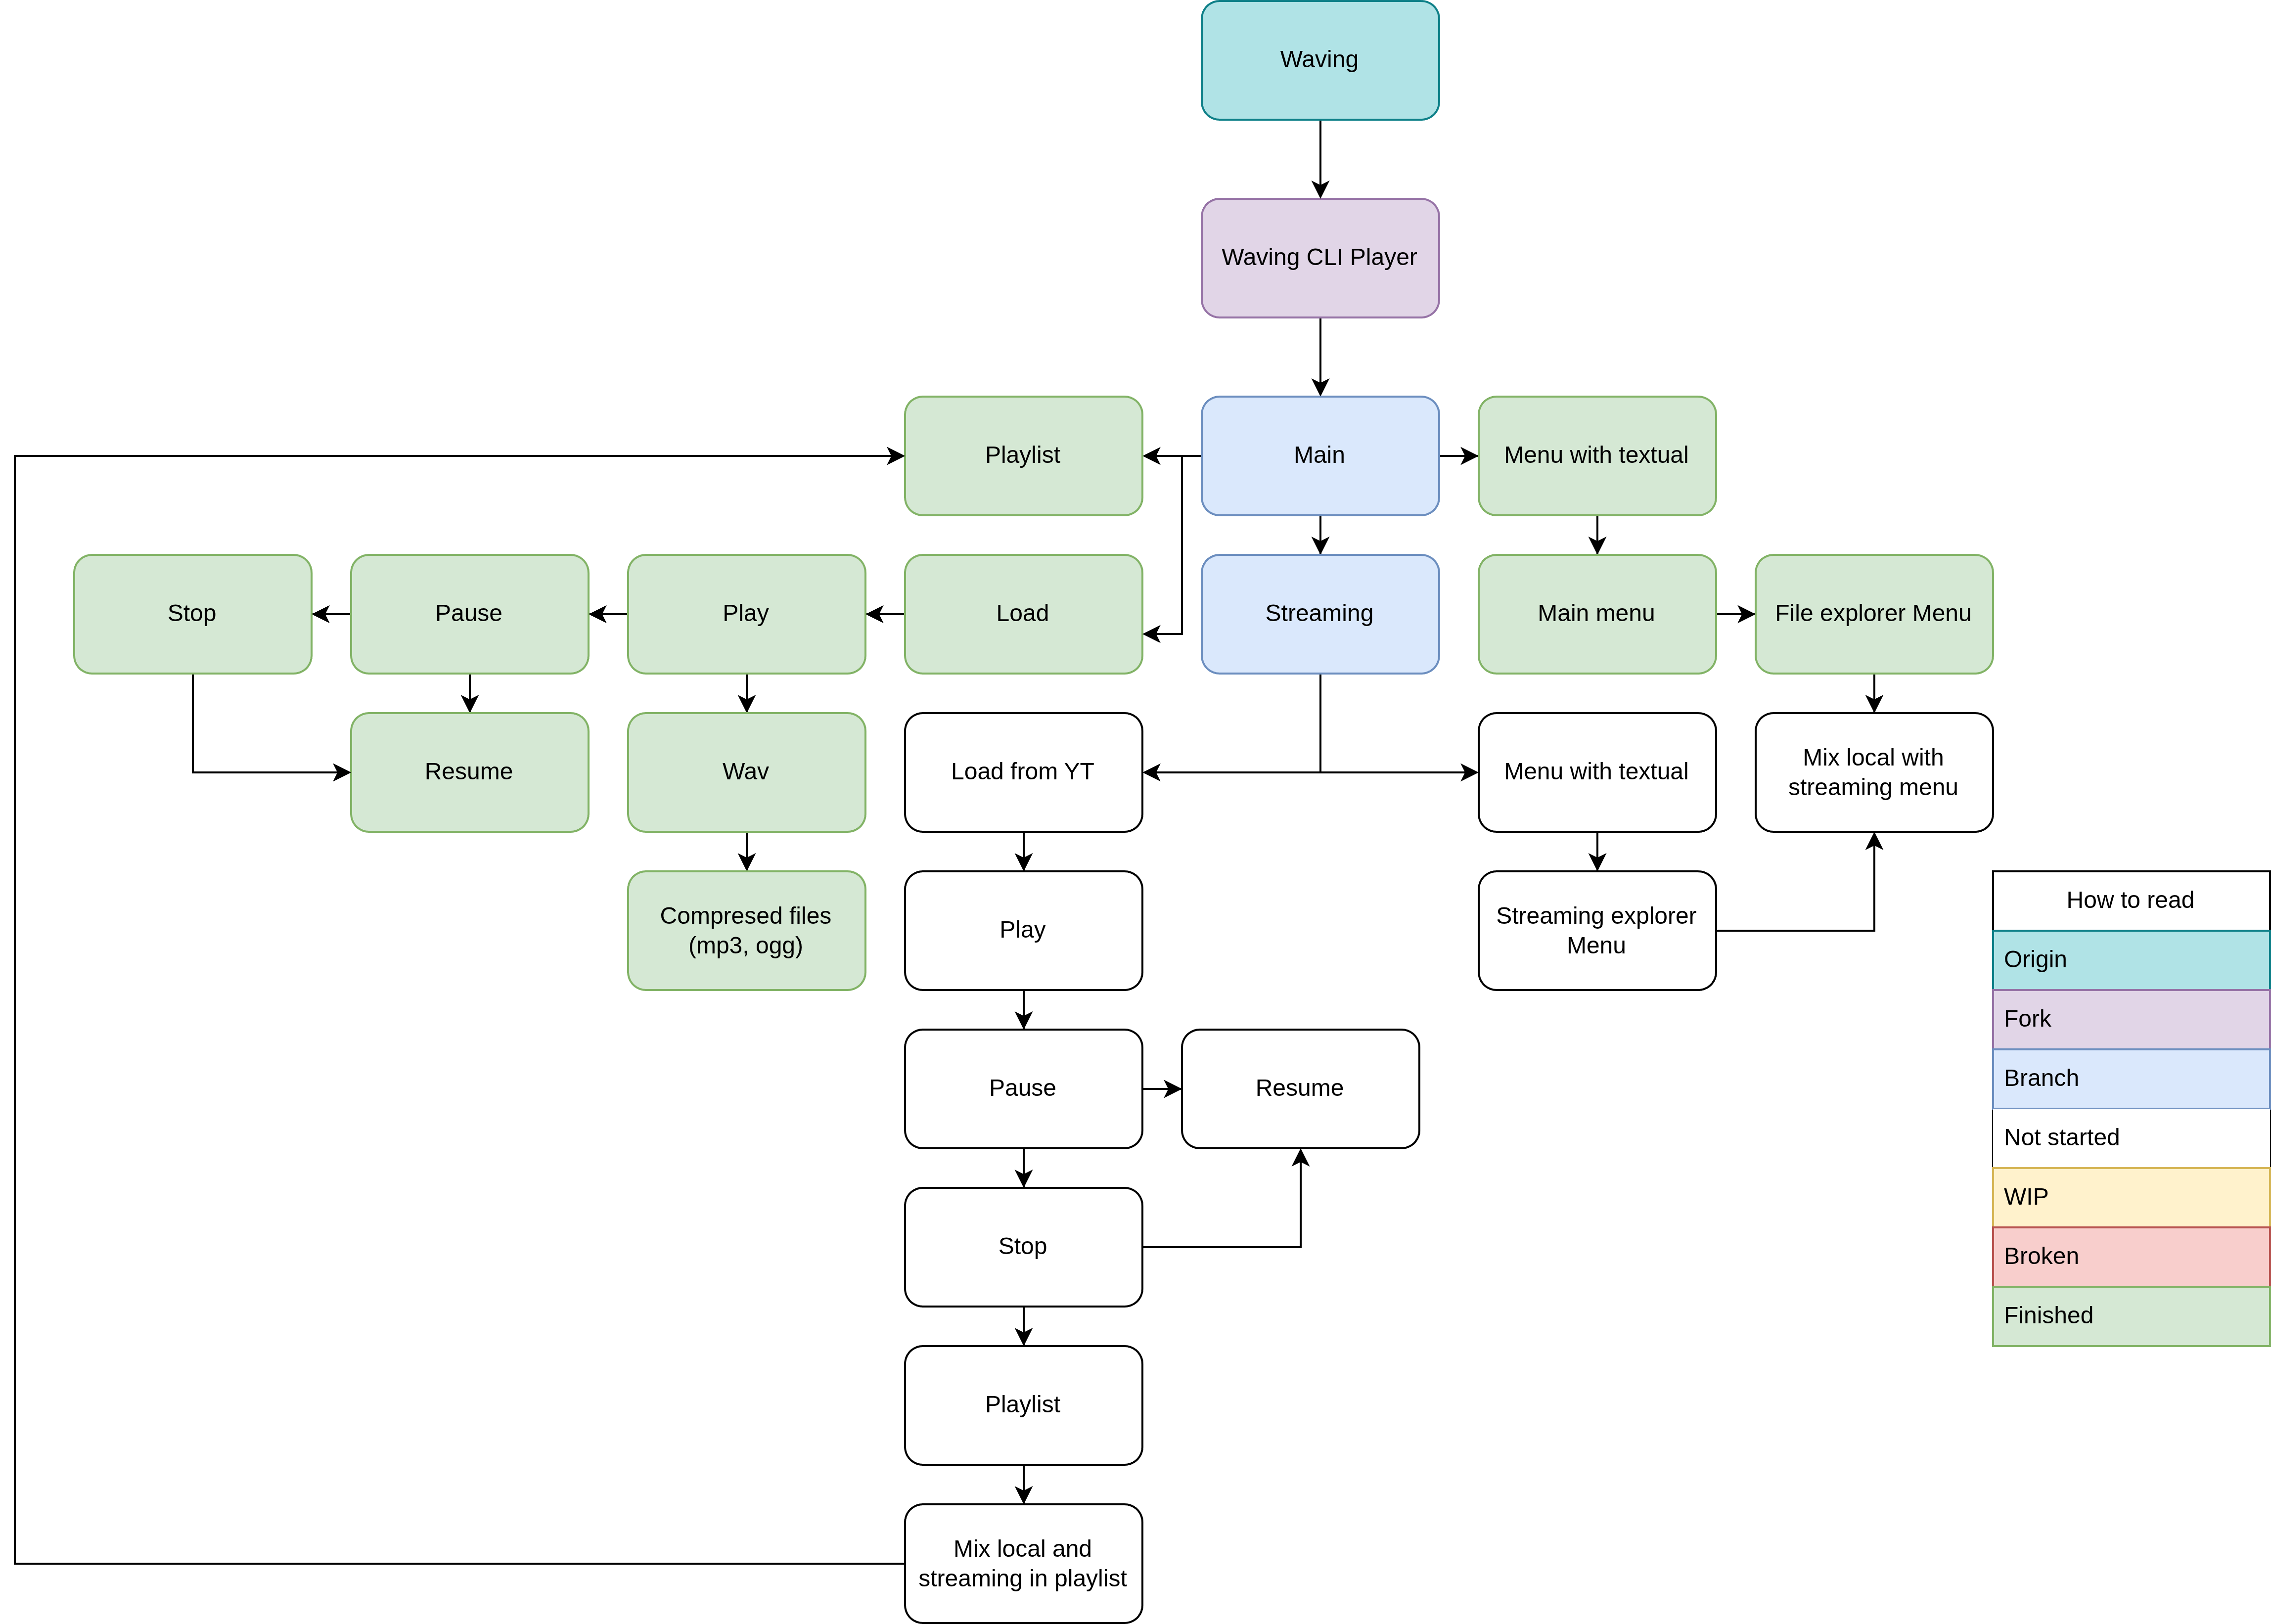
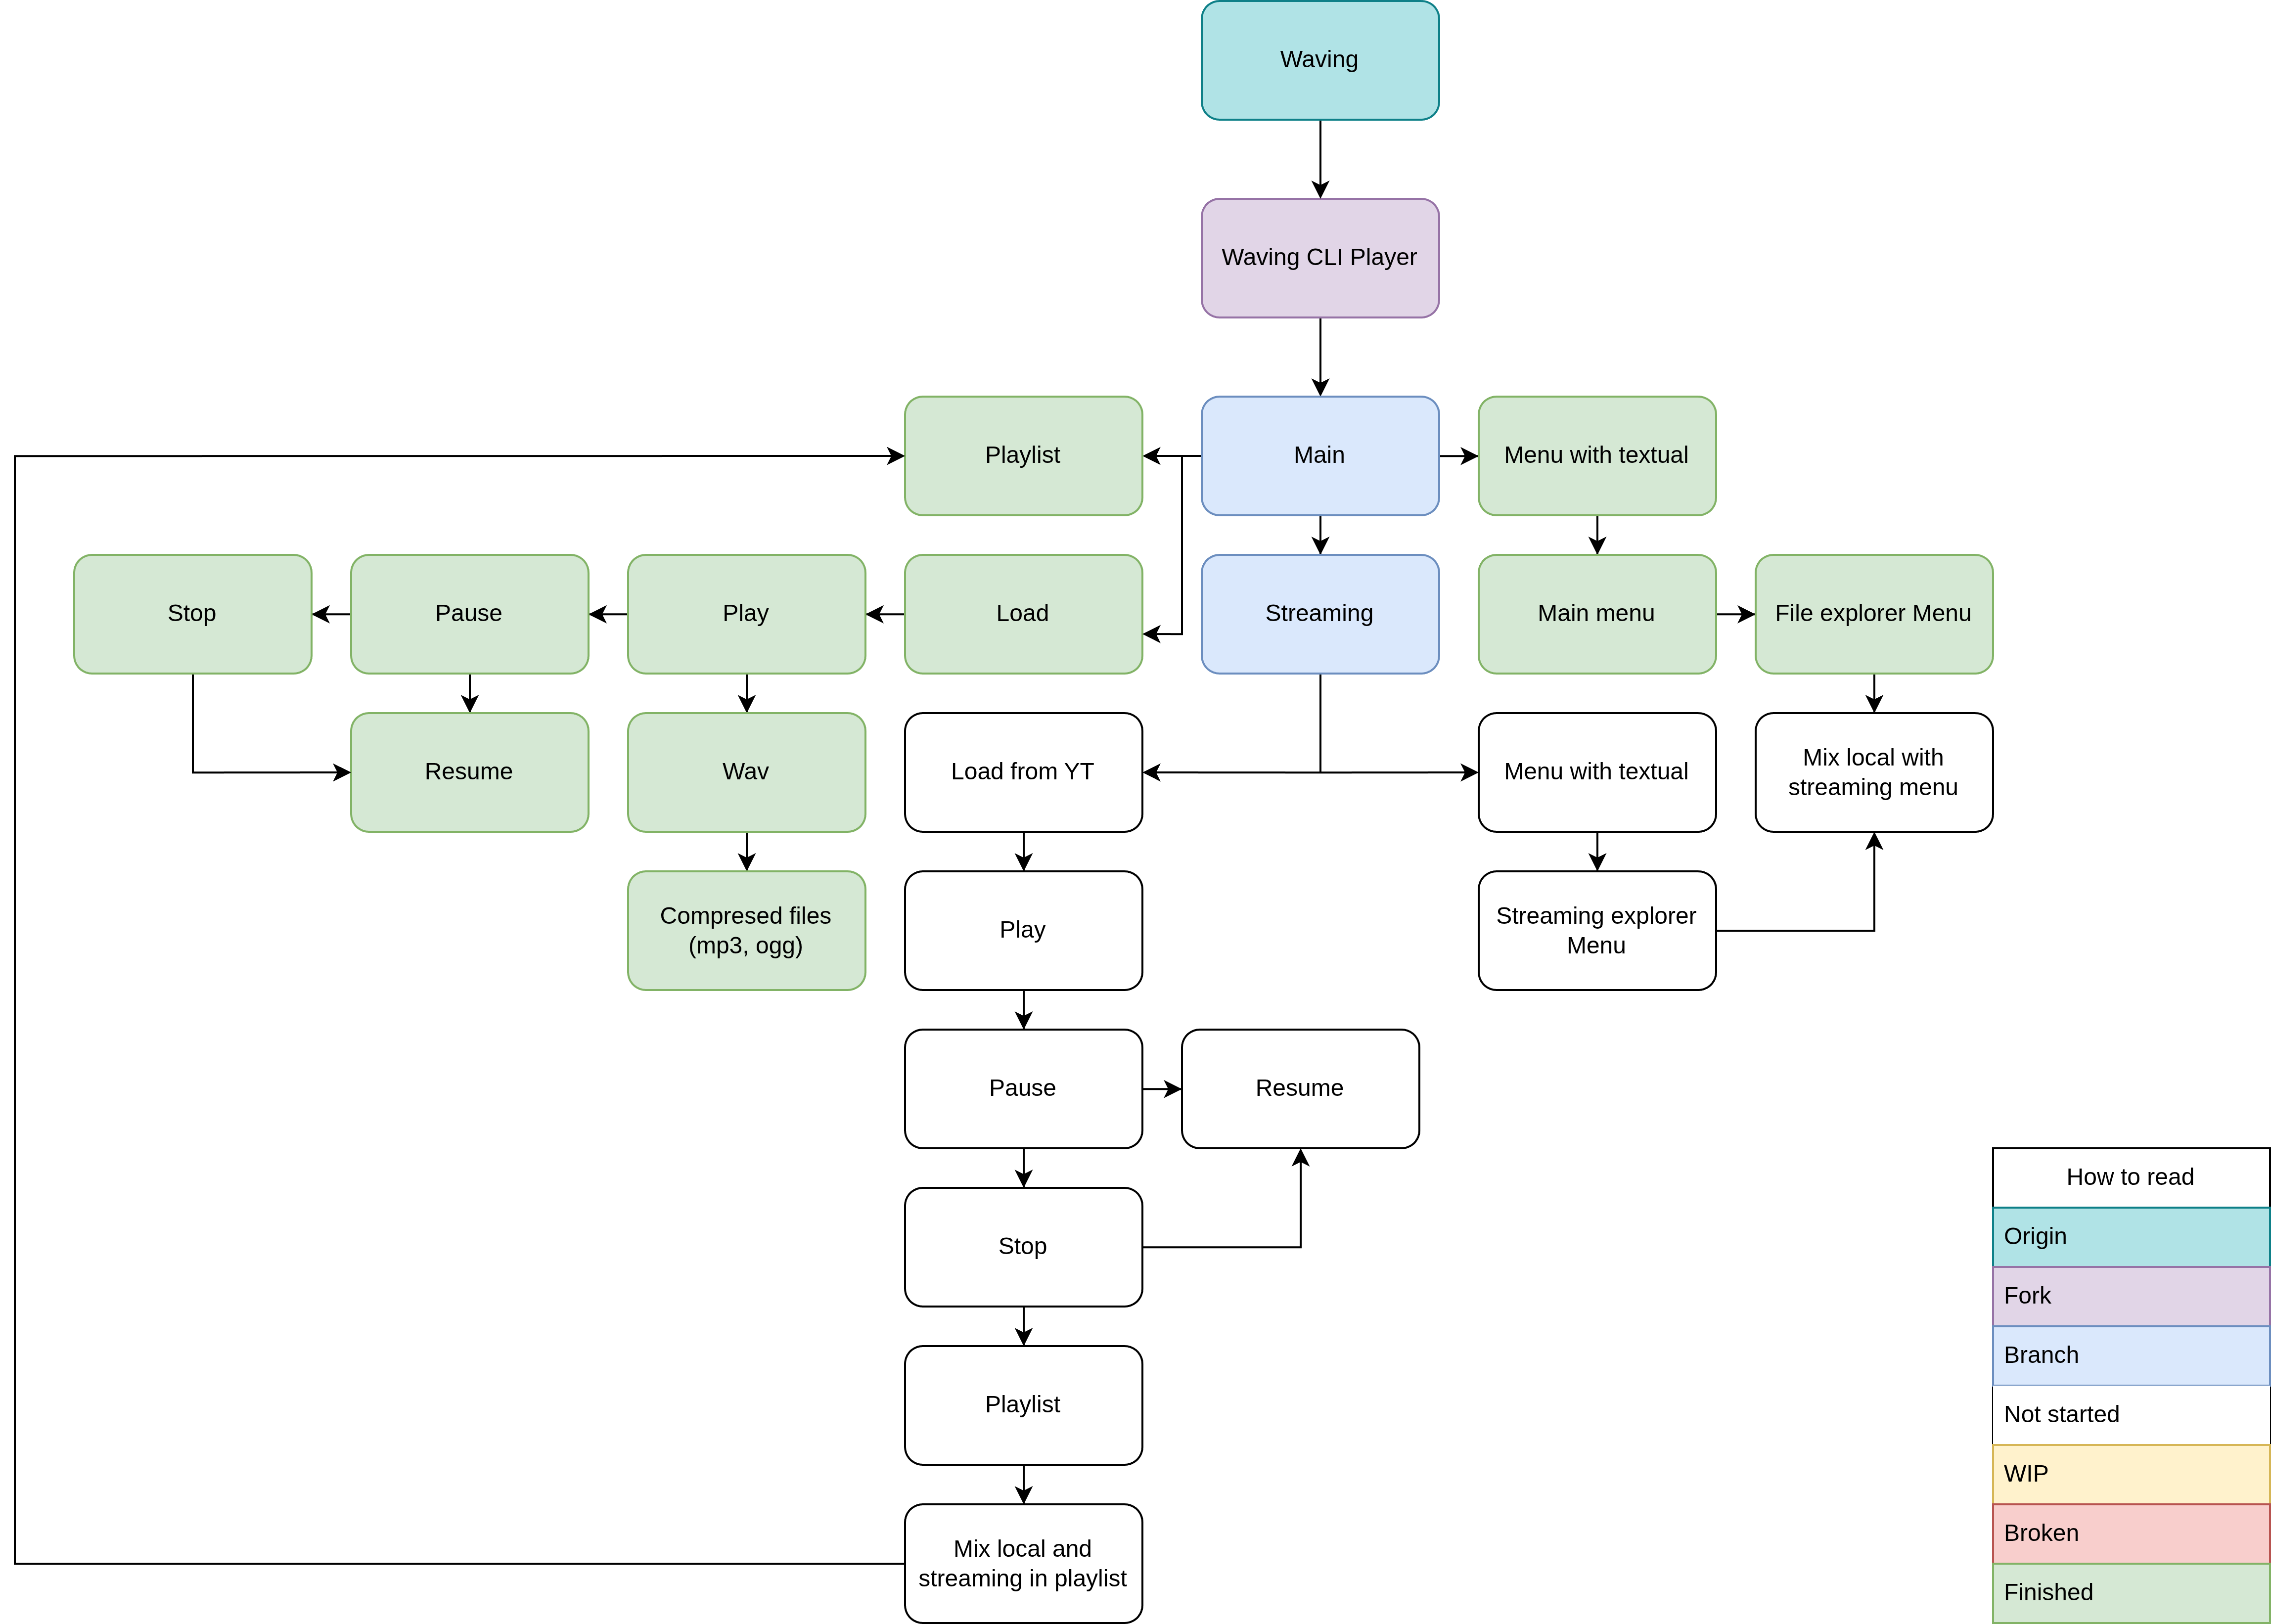
README.md Uptdated

Changed region(s): [[0.872, 0.528, 1.0, 1.0]]

diff --git a/README.md b/README.md
@@ -1,2 +1,27 @@
 # Waving-CLI-Player
 Waving CLI is a music player that plays local files and stream from YT
+
+Waving is a music player based on [Textual](https://github.com/textualize/textual) for creating menus and on [miniaudio](https://github.com/irmen/pyminiaudio) to process audio files, supports wav, mp3 and ogg.
+![alt text](Screenshots/title.png)
+
+![alt text](Screenshots/main_menu.png)
+
+The player searches in /home/Music and, if the folder doesnt exist creates it.
+If you dont have any files or folder here, you will be notified.
+
+You can navigate through the menus using keyboard Arrows and Enter to select file or folder.
+
+If you selected a folder, browse within this folder.
+
+If selected a file, add it to a playlist; if you then want to select another file, that file will be placed next in the playlist.
+
+![alt text](Screenshots/main_menu_player.png)
+
+This is the Project Status Diagram:
+
+![<img src=(<WavingCLI Diagram.png>) width="900">](<WavingCLI Diagram.png>)
+
+# LLTFS (LONG LIVE TO FREE SOFTWARE)
+Thank you for run, study, redistribute and contribute!
+
+Att: Calak de Astora